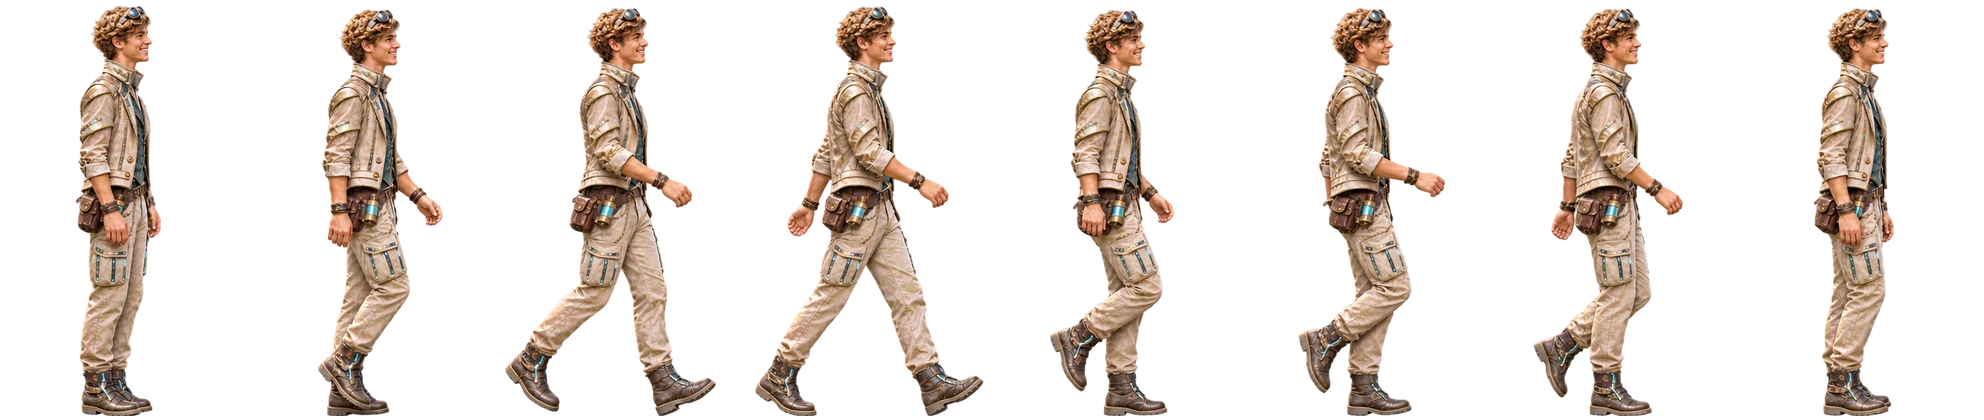
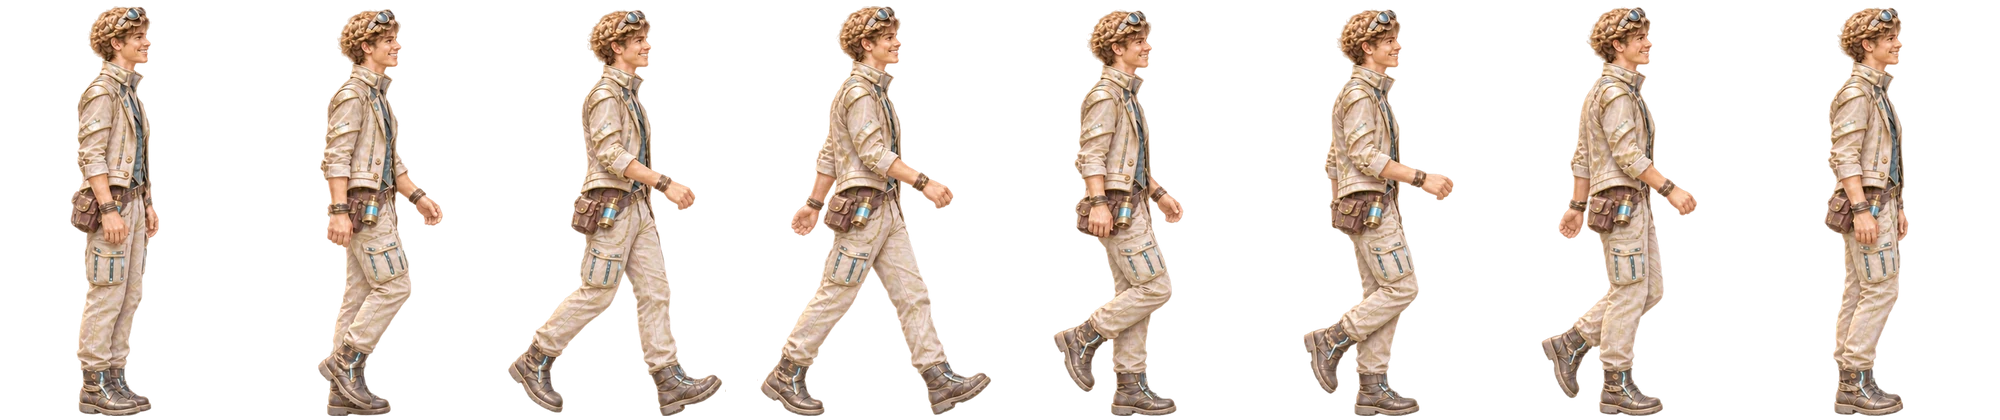
Forgotten Beginning: Grayson's walk in the realm's own art style
Claude-Session: https://claude.ai/code/session_01Utb2WF3PTNEbMeKt5eC5K2

diff --git a/forgotten-beginning/game.js b/forgotten-beginning/game.js
@@ -14,7 +14,7 @@ const BRIELLE_OUTFITS = [ACTORS[0],
 ];
 // Grayson, Brielle's older brother, works in the workshop. His sheet is 8 frames facing right; frame 0 is
 // him standing still. He potters between spots along the benches and stops to greet whoever comes close.
-const GRAYSON = { image: 'grayson-walk.webp', fw: 248, fh: 420, ax: 122, height: 220, cycle: 190,
+const GRAYSON = { image: 'grayson-walk.webp', fw: 250, fh: 420, ax: 120, height: 220, cycle: 190,
   speed: 80, spots: [.36, .5, .62, .44, .56, .3], notice: 175 };
 const GRAYSON_LINES = [
   [ // Brielle leads
